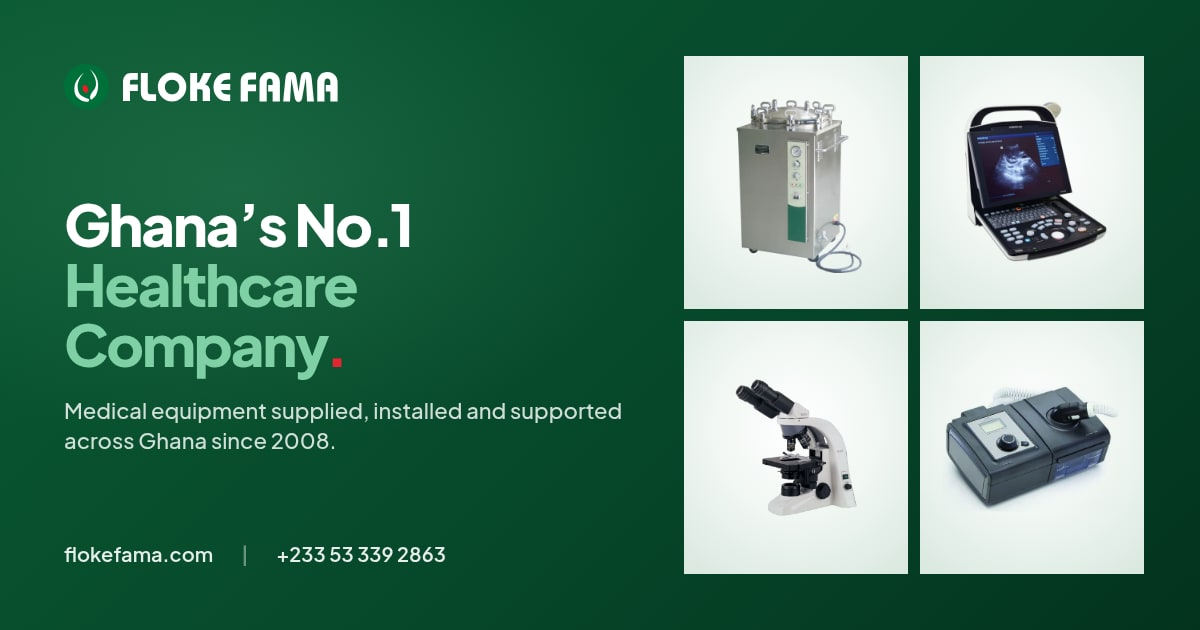
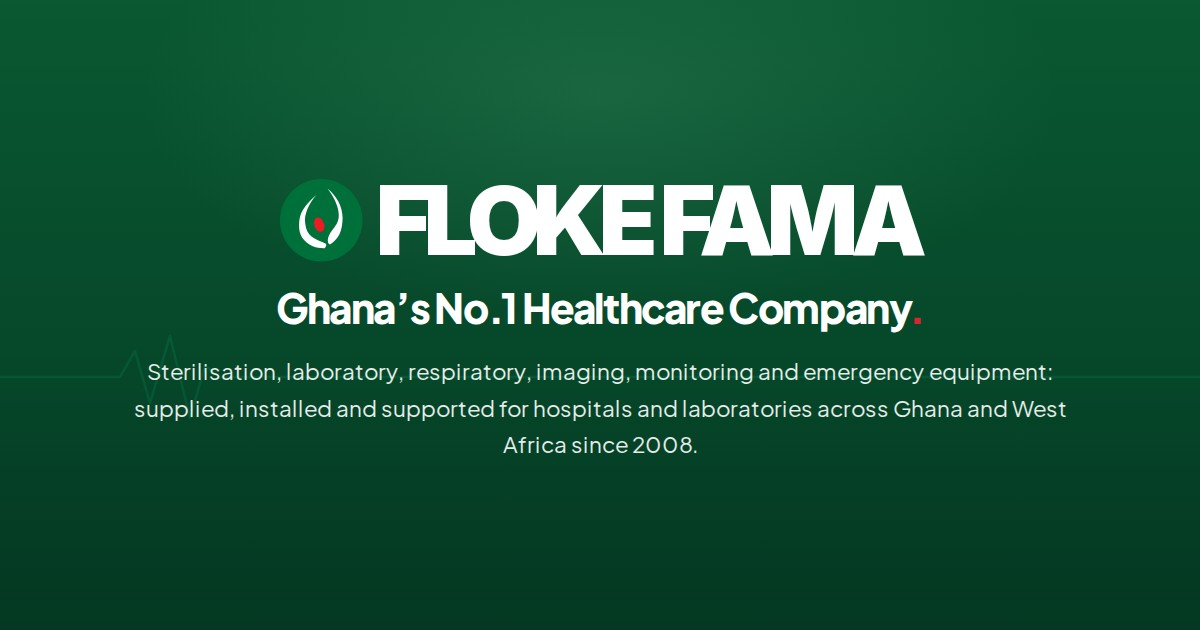
Share picture: the hero's first slide with the Flokefama name (#286)

diff --git a/src/app/layout.tsx b/src/app/layout.tsx
@@ -27,7 +27,8 @@ export const metadata: Metadata = {
   title: { default: 'Flokefama | Ghana’s No.1 Healthcare Company', template: '%s | Flokefama' },
   description:
     'Flokefama supplies, installs and maintains world-class medical equipment and laboratory diagnostics for hospitals across Ghana and West Africa. Official distributor of Mindray.',
-  openGraph: { type: 'website', siteName: 'Flokefama', images: ['/images/og-image.jpg'] },
+  // The share picture: the hero's first slide (?v= changes when it does, so apps fetch the new one)
+  openGraph: { type: 'website', siteName: 'Flokefama', images: [{ url: '/images/og-image.jpg?v=2', width: 1200, height: 630, alt: 'Flokefama, Ghana’s No.1 Healthcare Company' }] },
   twitter: { card: 'summary_large_image' },
   icons: { icon: '/images/favicon.png' },
   robots: allowIndexing ? undefined : { index: false, follow: false },
